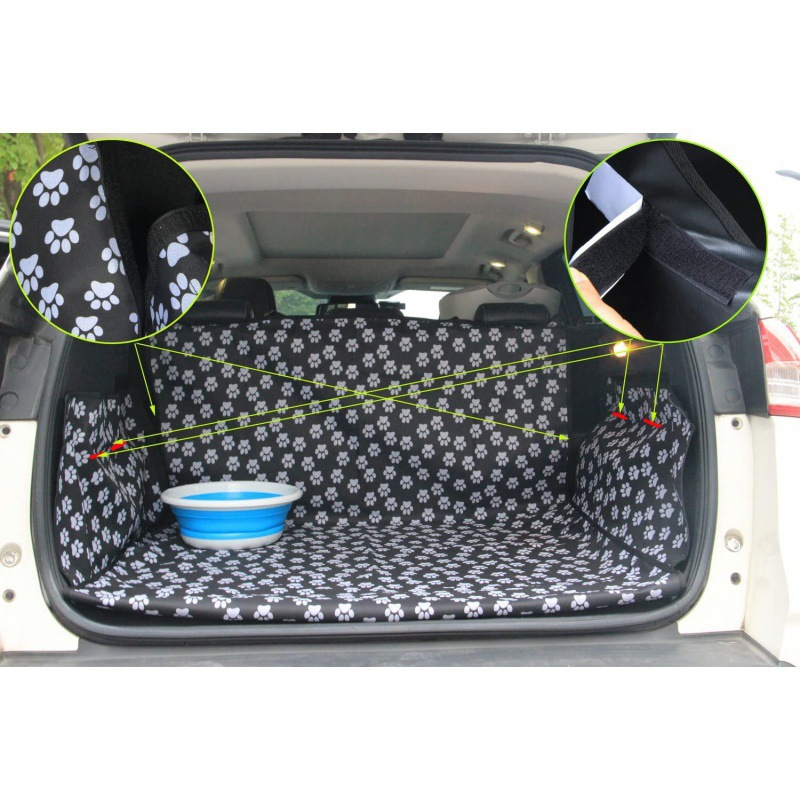
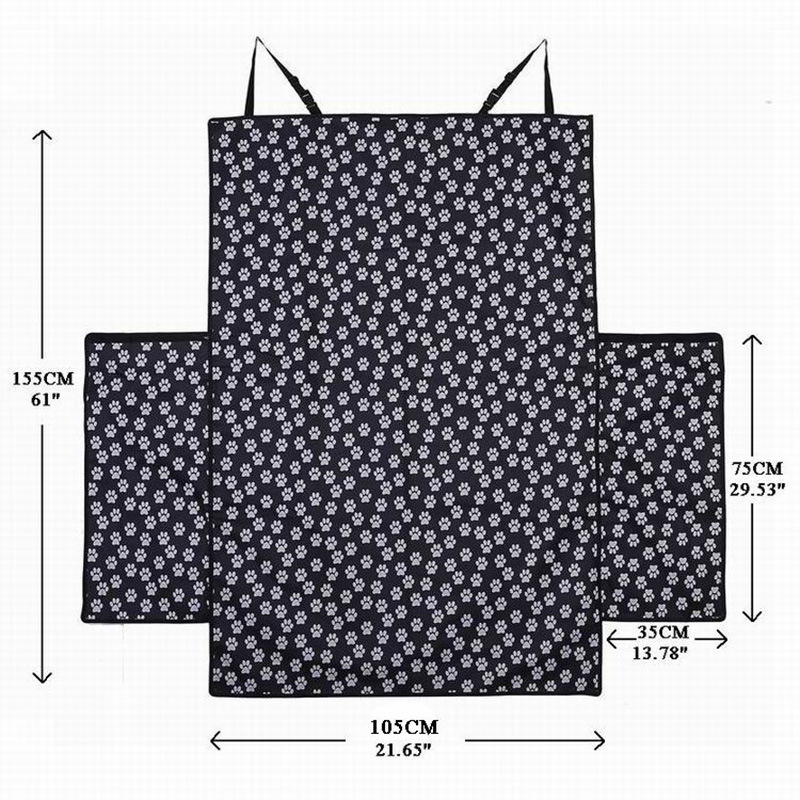
Update catalog from admin page

diff --git a/assets/js/catalog.config.js b/assets/js/catalog.config.js
@@ -1165,24 +1165,6 @@ window.PET_CATALOG_CONFIG = {
           ]
         },
         {
-          "code": "MJ-07",
-          "name": "Waterproof Rear Seat Pet Travel Mat",
-          "image": "assets/images/catalog/mj-07/1784901675764-mj-07-1.jpg",
-          "description": "Waterproof Rear Seat Pet Travel Mat is designed for organized daily feeding and hydration. The product listing highlights water-resistant construction. A practical choice for pet owners and retail assortments.",
-          "images": [
-            "assets/images/catalog/mj-07/1784901675764-mj-07-1.jpg",
-            "assets/images/catalog/mj-07/1784901675764-mj-07-2.jpg",
-            "assets/images/catalog/mj-07/1784901675764-mj-07-3.jpg",
-            "assets/images/catalog/mj-07/1784901675764-mj-07-4.jpg"
-          ],
-          "specifications": [
-            {
-              "label": "Dimensions",
-              "value": "140*135cm"
-            }
-          ]
-        },
-        {
           "code": "MM-08",
           "name": "Breathable Front Pet Carrier Backpack",
           "image": "assets/images/catalog/mm-08/1784882780803-mm-08-1.jpg",
@@ -1354,8 +1336,20 @@ window.PET_CATALOG_CONFIG = {
         {
           "code": "YW-08",
           "name": "Foldable Waterproof Trunk Pet Cargo Liner",
-          "image": "assets/images/catalog/yw-08/098-yw-08.png",
-          "description": "Foldable Waterproof Trunk Pet Cargo Liner is designed for organized daily feeding and hydration. The product listing highlights water-resistant construction, a foldable design. A practical choice for pet owners and retail assortments."
+          "image": "assets/images/catalog/yw-08/yw-08-1.jpg",
+          "description": "Foldable Waterproof Trunk Pet Cargo Liner is designed for organized daily feeding and hydration. The product listing highlights water-resistant construction, a foldable design. A practical choice for pet owners and retail assortments.",
+          "specifications": [
+            {
+              "label": "Dimensions",
+              "value": "150*135cm"
+            }
+          ],
+          "images": [
+            "assets/images/catalog/yw-08/yw-08-1.jpg",
+            "assets/images/catalog/yw-08/yw-08-2.jpg",
+            "assets/images/catalog/yw-08/yw-08-3.jpg",
+            "assets/images/catalog/yw-08/yw-08-4.jpg"
+          ]
         }
       ]
     },
